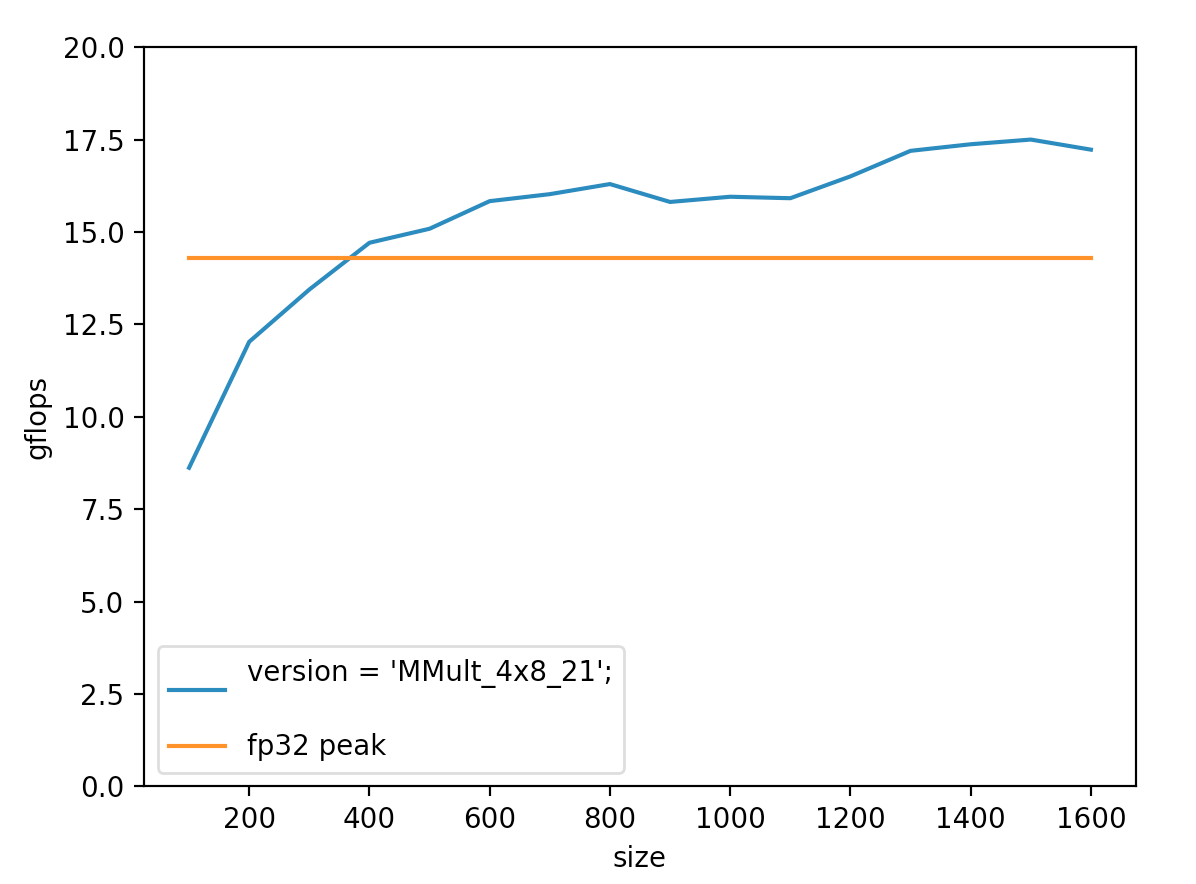
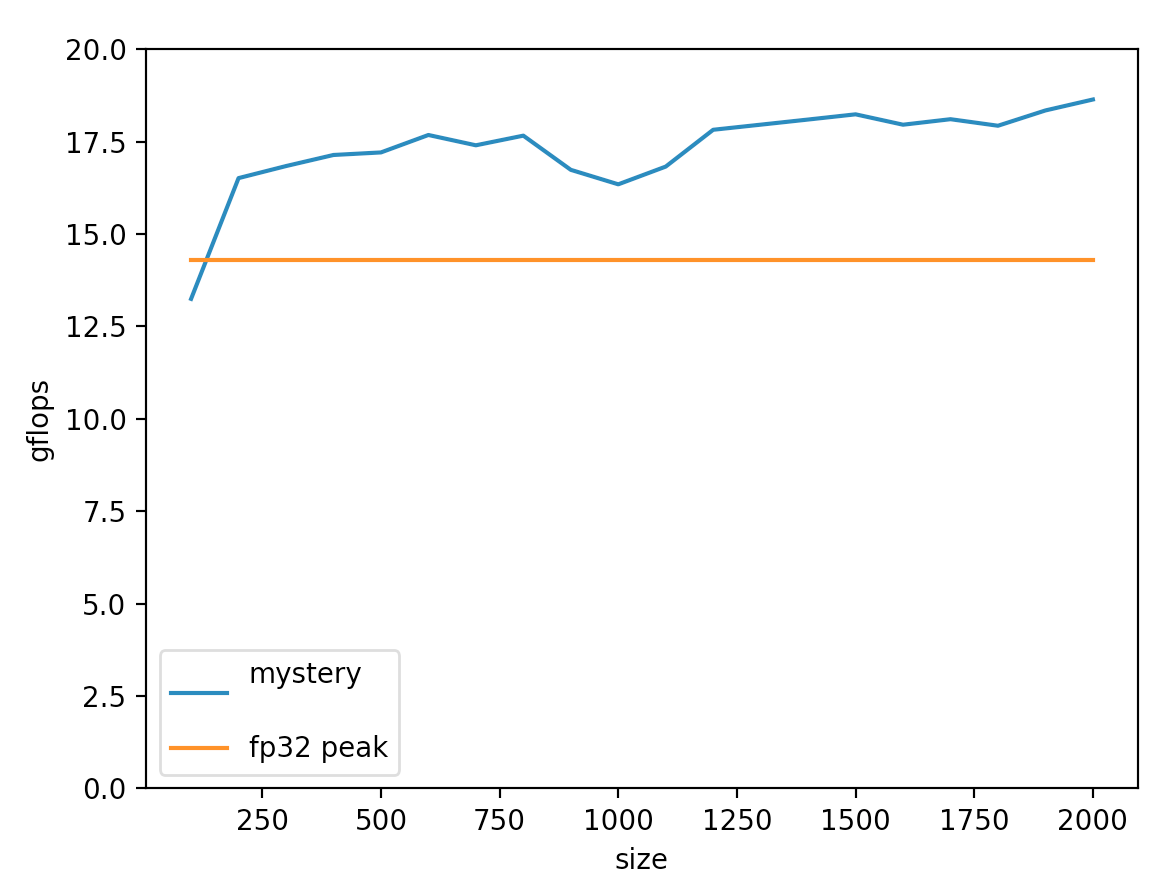
add readme

diff --git a/README.md b/README.md
@@ -1,5 +1,12 @@
 ### chgemm
 
+chgemm is an symmetric int8 project, which is slightly different from BLAS sgemm:
+1. when you input an int8_t type of matrix [-127,+127], you will get an int32_t one. PS: pay attention to the overflow;
+2. considering the application scene of the deeep learning, the packAB interface is open and can be adjusted;
+3. the common design plan is `alpha*A*B+beta*C=C`, but mine is `C=A*B`, because they have no utility in deep learning inference;
+4. the speed of this project is not slower than any other projects' symmint8 gemm.
+
+
 chgemm 是一个 int8 gemm 工程，与 BLAS gemm 不完全相同：
 
 1. 输入为 [-127, +127] 范围内的 int8_t 类型矩阵，输出为 int32_t 矩阵。需注意溢出；
@@ -10,8 +17,8 @@ chgemm 是一个 int8 gemm 工程，与 BLAS gemm 不完全相同：
 目前有个小 Bug，必须 -O0 编译...正在处理。
 
 ### 速度
--O0 编译，目前在 rk3399 单核结果。
+-O3 编译，目前在 rk3399 单核结果。
 
 ![尺寸和gflops结果](0.png)
 
-目前极限可以到 17.5 gflops，橙线是 rk3399 单核 fp32 极限。 
+目前极限可以到 18.6 gflops，橙线是 rk3399 单核 fp32 极限。 
